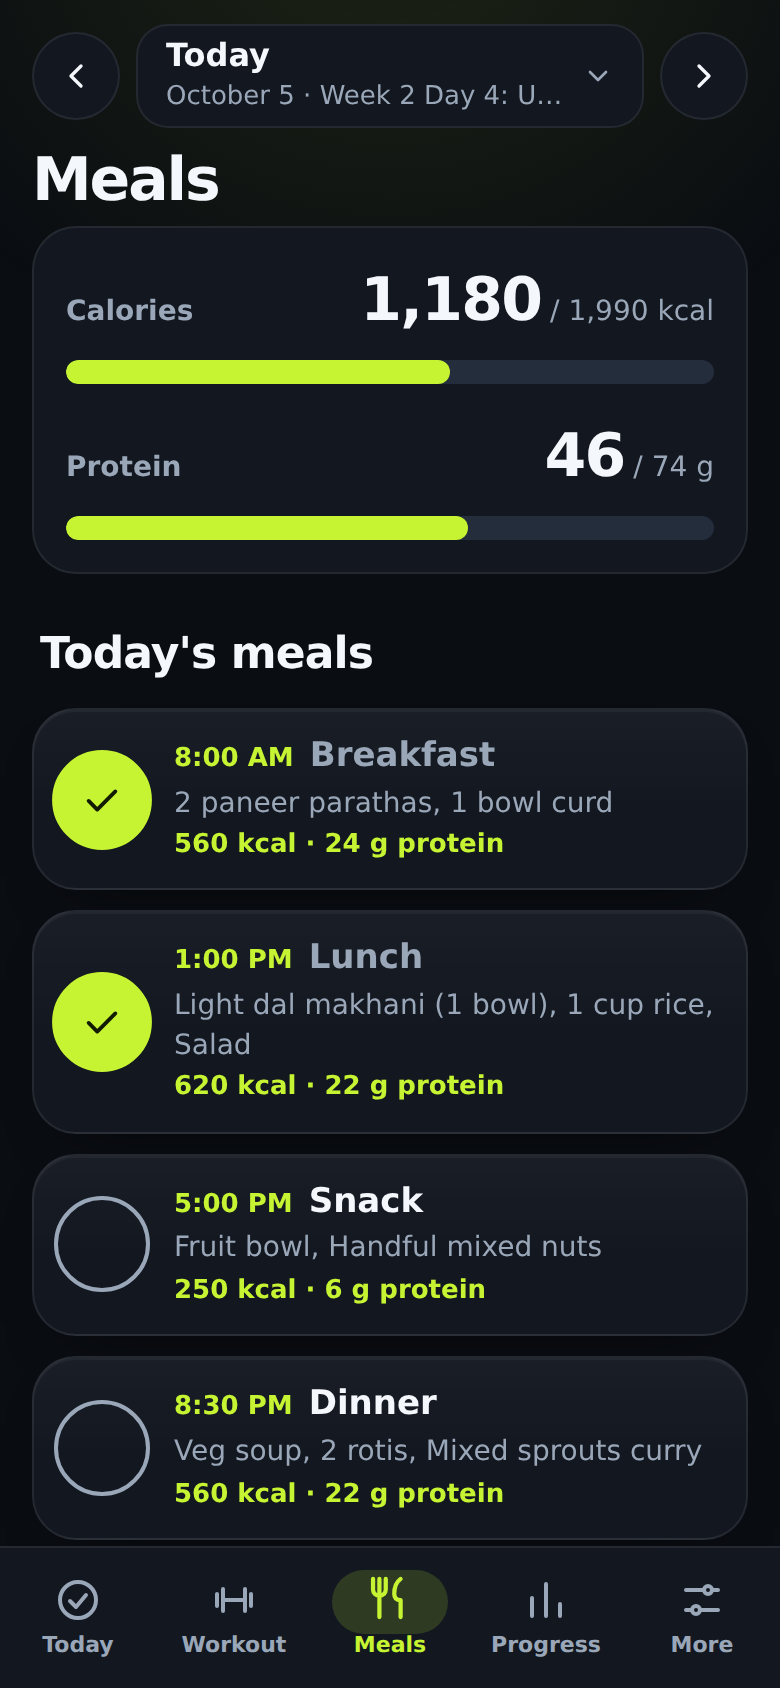
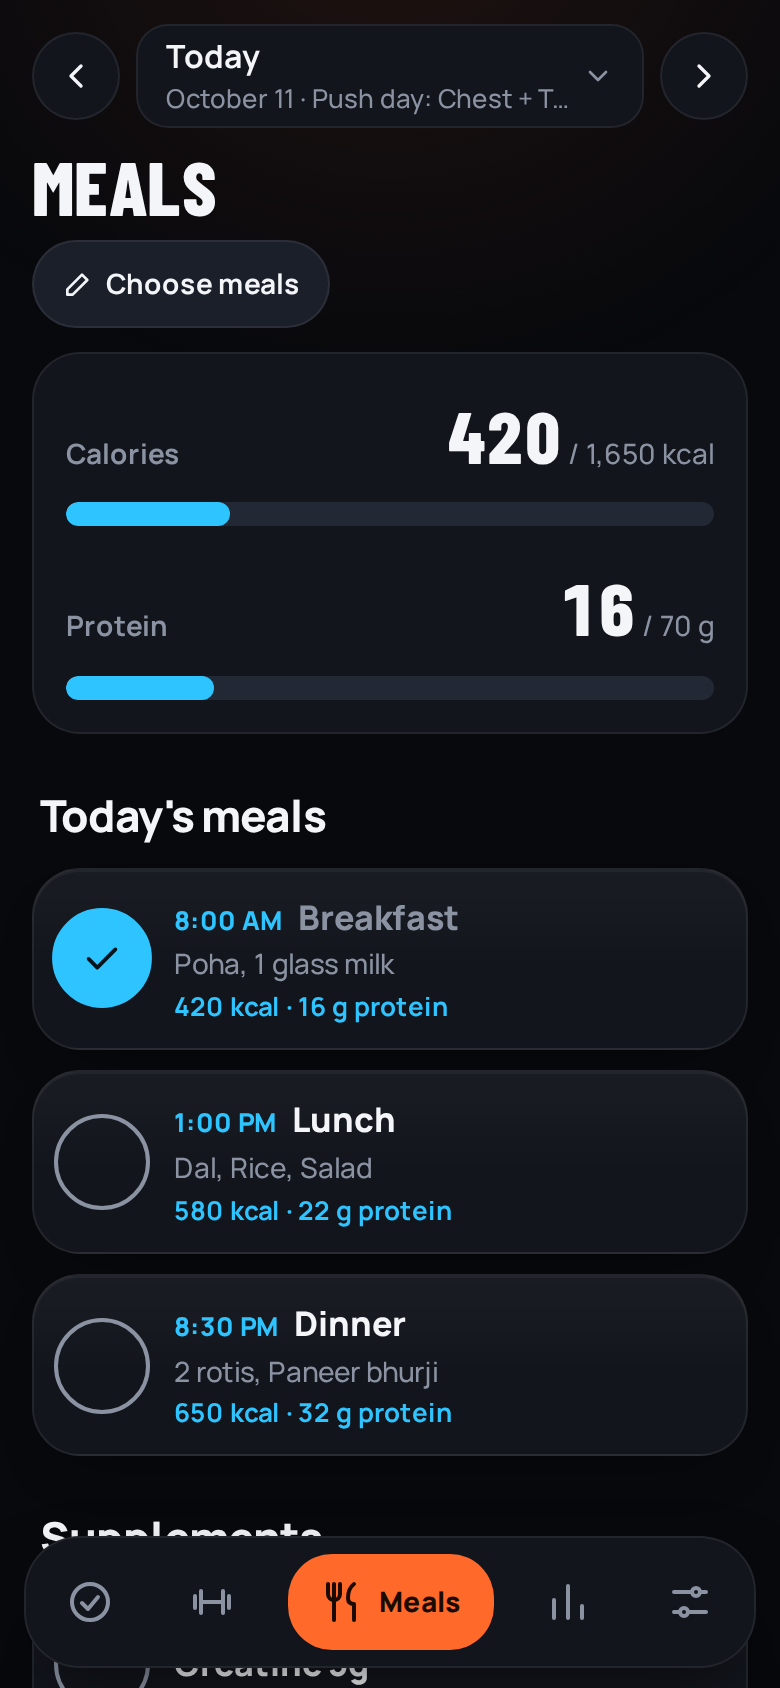
README: new Pulse and Bento screenshots, current features
Replaces the old screenshots (pre-redesign) with Pulse Today/Workout/Meals, Bento
Today/Progress and the Look switch, and updates the feature text (Move / Eat / Water
rings, live time on Continue, backup confirmation, calorie fine tune labels).

Claude-Session: https://claude.ai/code/session_01ARAdRuFuZMEY86m39CDVex

diff --git a/README.md b/README.md
@@ -1,25 +1,26 @@
 # TickFit
 
-**A free, open-source gym and meal tracker that lives on your phone.** Turn any workout and meal plan into a daily checklist, log every set, track calories burnt and your weight, and build a plan from your own details. **No account, no backend, no tracking, no subscription.** Everything stays on your device and it works fully offline.
+**A free, open-source gym and meal tracker that lives on your phone.** Turn any workout and meal plan into a daily checklist, log every set, track calories burnt and your weight, and build a plan from your own details. Two looks to choose from, **Pulse** and **Bento**, plus a website, an Android app and home screen widgets. **No account, no backend, no tracking, no subscription.** Everything stays on your device and it works fully offline.
 
 **[Open the web app](https://predatorwoah.github.io/TickFit/)** · **[Download the Android app](https://github.com/PredatorWoah/TickFit/releases/latest)** · [Privacy](PRIVACY.md) · [Contribute](CONTRIBUTING.md)
 
 > Built to share with friends so nobody has to pay for a fitness app. Plain HTML, CSS and JavaScript with no build step, so anyone can read it, fork it and change it.
 
 <p>
-  <img src="docs/screenshots/today.png" alt="Today: progress ring, streak, and cards to start your workout and open your meals" width="240">
-  <img src="docs/screenshots/workout.png" alt="Workout mode with big weight and reps boxes and a running clock" width="240">
-  <img src="docs/screenshots/meals.png" alt="Meals with calorie and protein meters" width="240">
+  <img src="docs/screenshots/today.png" alt="Pulse look, Today: three rings for Move, Eat and Water, and an orange Continue workout button with the live time" width="240">
+  <img src="docs/screenshots/workout.png" alt="Pulse look, Workout: last time's numbers, big weight and reps boxes, a running clock" width="240">
+  <img src="docs/screenshots/meals.png" alt="Pulse look, Meals: calorie and protein meters and meal tick tiles in cyan" width="240">
 </p>
 <p>
-  <img src="docs/screenshots/builder-plan.png" alt="The plan builder showing daily targets and the week" width="240">
-  <img src="docs/screenshots/progress.png" alt="Progress screen with streak and calendar" width="240">
-  <img src="docs/screenshots/workout-light.png" alt="Light theme" width="240">
+  <img src="docs/screenshots/today-bento.png" alt="Bento look, Today: a yellow progress ring tile, a pink workout tile and thick black outlines" width="240">
+  <img src="docs/screenshots/progress-bento.png" alt="Bento look, Progress: streak tiles and the weekly summary" width="240">
+  <img src="docs/screenshots/look.png" alt="More, Look: switch between Pulse and Bento, and pick dark, light or match phone" width="240">
 </p>
+<p><em>Top: the Pulse look. Bottom: the Bento look, and the switch in More.</em></p>
 
 ## What it does
 
-- **Today:** a calm summary. A progress ring, your streak, a week strip with completion dots, one big **Start workout** button, your meals at a glance and water. Tap the day title to jump to any day of the plan.
+- **Today:** a calm summary. In Pulse, three rings show **Move** (sets, orange), **Eat** (calories, cyan) and **Water** (violet) at a glance; in Bento, one big ring on a yellow tile. Plus your streak, a week strip with completion dots, one big **Start workout** button (it shows the live time while you train), your meals at a glance and water. Tap the day title to jump to any day of the plan.
 - **Workout mode:** one screen, no pop-ups. Every exercise is listed, the one you are on is open with a row for each set and big weight and reps boxes. Tick a set and the next exercise opens by itself. A clock runs while you train (it even starts on your first ticked set), and **Finish workout** shows your time, sets and total weight lifted. Boxes are pre-filled from the last time you did that exercise ("Last time (Sep 27): 3 sets of 22.5 × 10").
 - **Notes you can edit:** the day's notes on the Workout screen are laid out as a tidy list (labels in bold, safety warnings in their own box) and collapse when long. Tap the pencil to edit them, hit **Tidy up into points** to auto-arrange your own text, and choose to save for just that day or every day that has the same note.
 - **Meals:** calories and protein meters, each meal as a big tick tile, supplements and water.
@@ -30,9 +31,10 @@
 - **Or bring any plan:** paste JSON, upload a PDF or text file, or let a free chatbot convert your document. Friendly errors tell you exactly what is wrong ("Day 3 is missing meals").
 - **Mix and match each day:** tap **Choose exercises** or **Choose meals** on Today, Workout or Meals to pick what you do on that date. Filter by category (it starts on the day's focus, so "Friday Back Biceps" opens on back and biceps), search, tick what you want and **move it up or down** into order, add your own, or ask Claude or Gemini for **suggestions** if you set a key. **More > Exercise and meal library** lists everything you can add, by category, with one tap to add it to today. Pick from your plan's library, its other days, or TickFit's built-in exercise list. Only that date changes; **Use the plan's list** puts it back.
 - **Progress:** streak, last 7 day completion and a month calendar. Tap a day to open it.
+- **Last backup you can trust:** on Android, some apps (like Drive's "Save to Drive" box) never tell TickFit whether they saved the file, so it asks you, and **Last backup** only changes when the file really was saved.
 - **Daily weight tracker:** tap the Weight tile on Today to log your weight (big number, +/- 0.1 buttons). Progress shows a chart (30 or 90 days), your 7 day average and how much you gained or lost versus last week. The average matters more than any one day, because weight swings a kilo or two with water and food.
 - **Calories per exercise:** every exercise has an effort level (lifting about 5 to 6 METs, a run about 9, a walk about 4, stretching 2.5). TickFit estimates what each exercise burnt from that, your body weight and the time it took (timed work like "30 min" uses its real time; the workout clock is used when you finish). The finish summary shows the total and each exercise, and cardio gets its own line.
-- **Correct the numbers yourself:** the calorie and time estimates are only a guess, so you can fix them. Tap **Edit** on a finished workout, or **Edit time and calories for a day** on the Progress tab (it lists the week or month, and also lets you add a workout you did without logging sets). Typed numbers win over the estimate and everything adds up to them. **More > Calorie estimates** nudges all estimates up or down 10 or 20 percent if your watch usually disagrees.
+- **Correct the numbers yourself:** the calorie and time estimates are only a guess, so you can fix them. Tap **Edit** on a finished workout, or **Edit time and calories for a day** on the Progress tab (it lists the week or month, and also lets you add a workout you did without logging sets). Typed numbers win over the estimate and everything adds up to them. **More > Calories burnt: fine tune** moves all estimates down or up (−20%, −10%, As is, +10%, +20%) if your watch usually disagrees, with an example of what it does.
 - **Weekly and monthly summary:** estimated calories burnt, workouts, training time, sets, total weight lifted, a bar per day, comparison with the previous week or month, and daily averages for calories, protein and water. Total lifted comes with a desi fun comparison (a bag of atta, an LPG cylinder, a Royal Enfield Bullet, an auto rickshaw, a Maruti 800, an Indian elephant, a WAP-7 engine, the PSLV that sent Mangalyaan to Mars, all the steel in Howrah Bridge, up to INS Vikrant and past 100 million kg) and your next milestone. Each exercise shows its share of the calories and kcal per minute; the strength list shows your best set against your previous best, more reps at the same weight as a new best, an estimated 1 rep max and the weight moved. **Sets per muscle group** shows your balance and which big groups you skipped. Calories use the MET method (5 METs for lifting x your body weight x workout time), so treat them as a rough guess. Body weight comes from your plan builder answers, or set it right there.
 - **Plans in one place:** **More > My plan** to switch, edit or add a plan. Switching keeps your history: TickFit offers to **bring in the progress** of your old plan, so your streak, calendar, summaries and lifting history carry on. Each past day keeps the exercises and meals it really had, with every tick and logged set, and nothing already logged is overwritten. **Bring in progress** on the active plan does the same any time. First-time visitors get a short welcome with three clear choices: build a plan for me, I already have one, or show me around with the sample.
 - An **editor** for every exercise, meal and extra.
